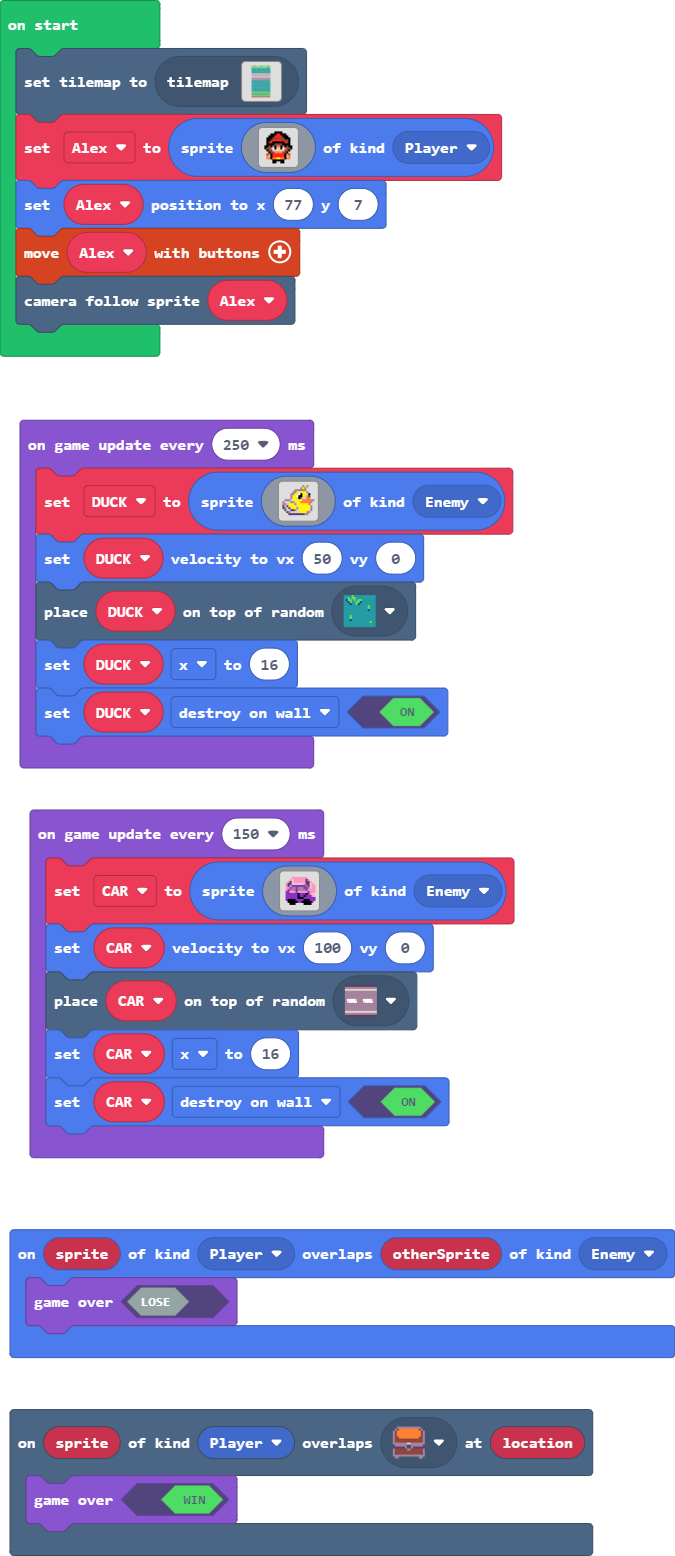
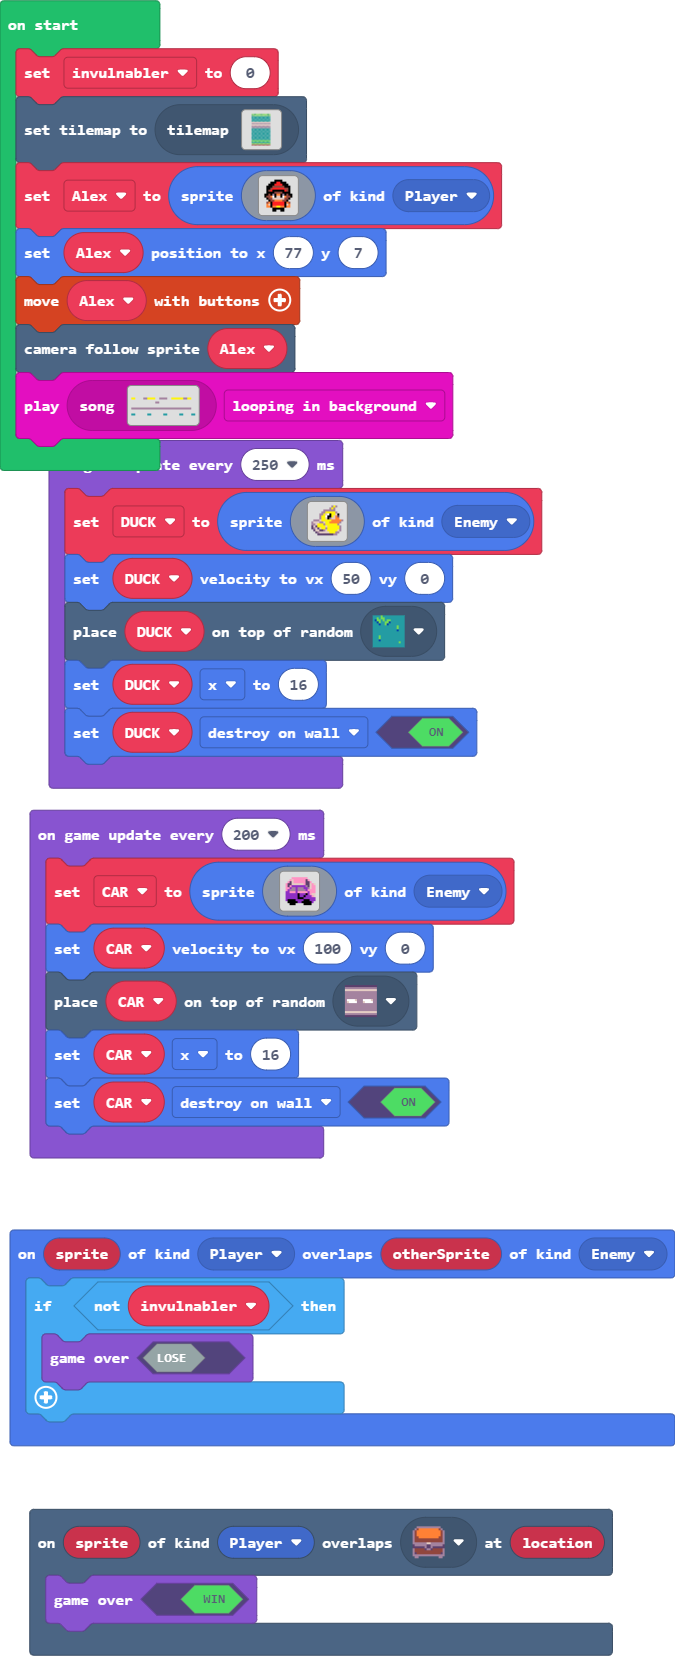
update

diff --git a/main.ts b/main.ts
@@ -2,10 +2,14 @@ scene.onOverlapTile(SpriteKind.Player, sprites.dungeon.chestClosed, function (sp
     game.gameOver(true)
 })
 sprites.onOverlap(SpriteKind.Player, SpriteKind.Enemy, function (sprite, otherSprite) {
-    game.gameOver(false)
+    if (!(invulnabler)) {
+        game.gameOver(false)
+    }
 })
 let CAR: Sprite = null
 let DUCK: Sprite = null
+let invulnabler = 0
+invulnabler = 0
 tiles.setCurrentTilemap(tilemap`level 0`)
 let Alex = sprites.create(img`
     . . . . . . f f f f . . . . . . 
@@ -28,6 +32,7 @@ let Alex = sprites.create(img`
 Alex.setPosition(77, 7)
 controller.moveSprite(Alex)
 scene.cameraFollowSprite(Alex)
[1 lines of base64/hex data omitted]
 game.onUpdateInterval(250, function () {
     DUCK = sprites.create(img`
         . . . . . . . . . . b 5 b . . . 
@@ -52,7 +57,7 @@ game.onUpdateInterval(250, function () {
     DUCK.x = 16
     DUCK.setFlag(SpriteFlag.DestroyOnWall, true)
 })
-game.onUpdateInterval(150, function () {
+game.onUpdateInterval(200, function () {
     CAR = sprites.create(img`
         . . . . . . . . . . . . . . . . 
         . . . . 3 3 3 3 3 3 3 3 . . . . 
